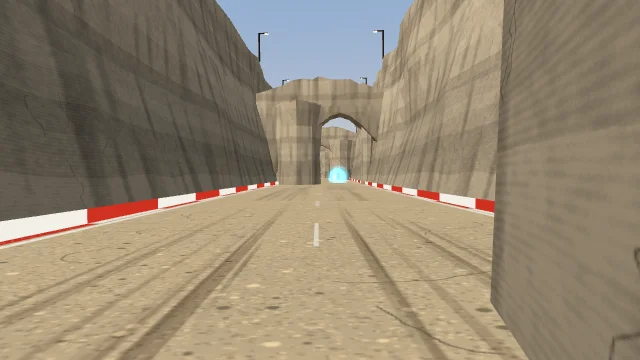
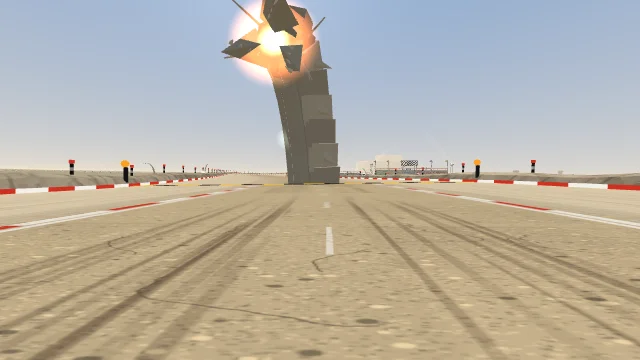
feat(web): wrecks end the race, hazards in the track, loops and crossings, Frostline
A wreck now ends your race: hull gone, a dead-centre hit at speed, a fall
into a chasm or off an open edge, or a stall in a loop. The glider breaks
apart in a slow-motion cinematic and the results show a DNF. Obstacles,
walls and rivals cost real hull (repair cells give some back), walls
never pin a racer, and catch-up keeps the pack close.

Landmarks are now part of the course through scheduled hazards both the
simulation and the visuals read: the sand beast arches over and slams
across the road, the digger drops ore, ships and rotor wash push racers
sideways, whales and freighters block causeways, avalanches and glacier
slabs fall, herds cross. Every world has technical, speed and gimmick
tracks with loops, corkscrews, cliff edges, figure-8s and knots with
bridges and flat X junctions. Frostline, the ice world, adds six tracks
and three cups. Gliders differ more, the economy is rebalanced across
worlds, and every track preview shows its signature set piece.

Refs: MIRA-14, MIRA-19, MIRA-20, MIRA-21, MIRA-22

Claude-Session: https://claude.ai/code/session_01M8hygYfZpSzefA1i6zEkg3

diff --git a/specs/spec.md b/specs/spec.md
@@ -49,16 +49,25 @@ racers and upgrades, and a championship of three cups gives the series a goal.
 ## Core Game Loop
 
 1. **Pick a race**: the next race of a championship cup, or a quick race on any track of an
-   open world. Each world (Mirage Desert, Coral Coast; more to come) has six to eight tracks
-   and three cups, rookie → pro → elite. Winning a world's rookie cup opens the next world.
+   open world. Each world (Mirage Desert, Coral Coast, Frostline; more to come) has six to
+   eight tracks and three cups, rookie → pro → elite. Winning a world's rookie cup opens the
+   next world. Every world mixes track archetypes: a forgiving rookie loop, a technical track
+   of switchbacks, a speed track with a 2–2.7 km straight, and a gimmick track (vertical loop,
+   corkscrew, cliff roads with open edges); several are figure-8s or knots that cross
+   themselves on bridges or at flat X junctions with live cross-traffic.
 2. **Race**: six racers, 2–3 laps. Throttle is automatic. The craft always flies along the
    track and the player slides it sideways to where they want it (drag a thumb, or tilt, or
    buttons), air-brakes into hairpins and boosts. Boost runs from a tank that
    glowing boost cells along the course refill, and boost pads give free bursts. Open terrain is wide, with drivable sand beyond the road that is
    slower but harmless; canyons and tunnels are walled. Pillars, arches and boulder fields are
-   choices with a clear way round, and only a dead-centre hit at speed wrecks you. Chasms
-   swallow a racer who leaves a jump too slow. Every track has a walled, risky shortcut that
-   saves two or three seconds. A wreck costs about three seconds and a respawn.
+   choices with a clear way round. Collisions matter: obstacles, walls and rivals cost hull,
+   and green repair cells restore some. The landmarks are part of the course: scheduled
+   hazards the player can read and dodge (a sand beast arching over and slamming across the
+   road, a digger dropping ore, ships and rotor wash pushing racers sideways, whales and
+   freighters blocking a causeway, avalanches, calving glaciers, herds crossing). Every track
+   has a walled, risky shortcut that saves two or three seconds. A WRECK ENDS THE RACE: hull
+   gone, a dead-centre hit at speed, falling into a chasm or off an open edge, or stalling in
+   a loop. The craft disintegrates in slow motion, then the results show a DNF.
 3. **Collect**: credits by finishing place (one tap from the finish line to the results, one
    tap to the next race). Spend them in the garage on new racers and upgrades.
 
@@ -83,7 +92,11 @@ world. Winning a world's elite cup makes you that world's champion.
 | Slide steering | 0.42 m per finger px; 45 m/s target rate on keys | Lateral target; craft follows at up to 60 m/s sideways |
 | Corner drift | κ·v²·0.11 m/s outward | Hairpins at full boost push you wide; braking leaves 35% |
 | Road / sand run-off | 42–56 m / 35–80 m each side | Sand: 80% top speed, no damage |
-| Obstacle wreck | Hit within 15% of dead centre above 70% top speed | Anything else deflects (≤ 10% speed) |
+| Obstacle hit | Within 25% of dead centre above 60% top speed = wreck; else 0.7 × centrality × pace ÷ armour hull | Solid hits cost 35–55% hull, glancing 10–20% |
+| Walls | Impact damage above 8 m/s sideways; grinding 3% hull/s | Never slows a racer below 65% top speed |
+| Racer contact | Shoved apart by closing speed, split by armour; 0.002 hull per m/s above 8 m/s | One hit per pair per second |
+| Repair cell | +25% hull | Once per racer per lap |
+| Loop | Below 75 m/s in the upper half = wreck | Racers are held to the surface in loops and corkscrews |
 | Shortcuts | 1–2 per track, 18–22 m wide, walled | Save 1.5–3 s when driven well |
 | Boost pad / launch boost | 1.8 s / 0.9 s free boost | 7–10 pads per track, often in pairs |
 | Gravity | 38 m/s² | Jumps read weighty at these speeds |
@@ -91,11 +104,12 @@ world. Winning a world's elite cup makes you that world's champion.
 | Respawn | 2 s out, 30 m back, 60% top speed | About 3 s lost per wreck |
 | Laps | 2–3 per track, 9.3–10 km | Lap times 54–65 s on the starter racer |
 | Cup rival fields | Rookie: stock cars, skill 0.06–0.18; pro: upgrade 1, 0.52–0.64; elite: upgrade 1, 0.53–0.65 (eased skill²·⁸, with a 0.3 s reaction delay at skill 0) | Tight packs; same bands in every world |
-| Catch-up | Rivals 60–450 m ahead ease up to 6%; behind push up to 2% | Off once the player finishes |
-| Championship pay | 1000/750/550/400/250/150 × 1/4/12 | By place, per cup tier; cup bonus 2k/6k/25k |
-| Quick race pay | 50% of current tier | Scaled by laps |
-| Racer prices | 0 / 3k / 6.5k / 11k / 18k / 30k | Second racer after the first cup |
-| Upgrades | 5 tracks × 5 levels, 300–8500 each | Full set on one racer ≈ one Grand Prix of winnings |
+| Catch-up | Rivals behind push up to +15% top speed (60–450 m gap); ahead ease 3% | Off once the player finishes |
+| Championship pay | 1000/750/550/400/250/150 × tier × world | Cup bonus 1200/2400/4000 × world; repeat wins 25%; DNF pays 0 |
+| Glider top speeds | 150 / 158 / 166 / 174 / 182 / 192 m/s | Top glider ~28% faster than the starter |
+| Glider prices | 0 / 8k / 15k / 24k / 32k / 40k | Upgrade costs scale with glider class |
+| World pay multiplier | Desert 1, Coast 1.6, Frostline 2.4 | Tiers 1 / 1.6 / 2.4; quick race pays 35% at the hardest cup won |
+| Upgrades | 5 tracks × 5 levels, e.g. engine 550–4950 × (1 + price/40k) | Full starter set ≈ the whole desert's winnings |
 
 ## Platforms & Scope
 
